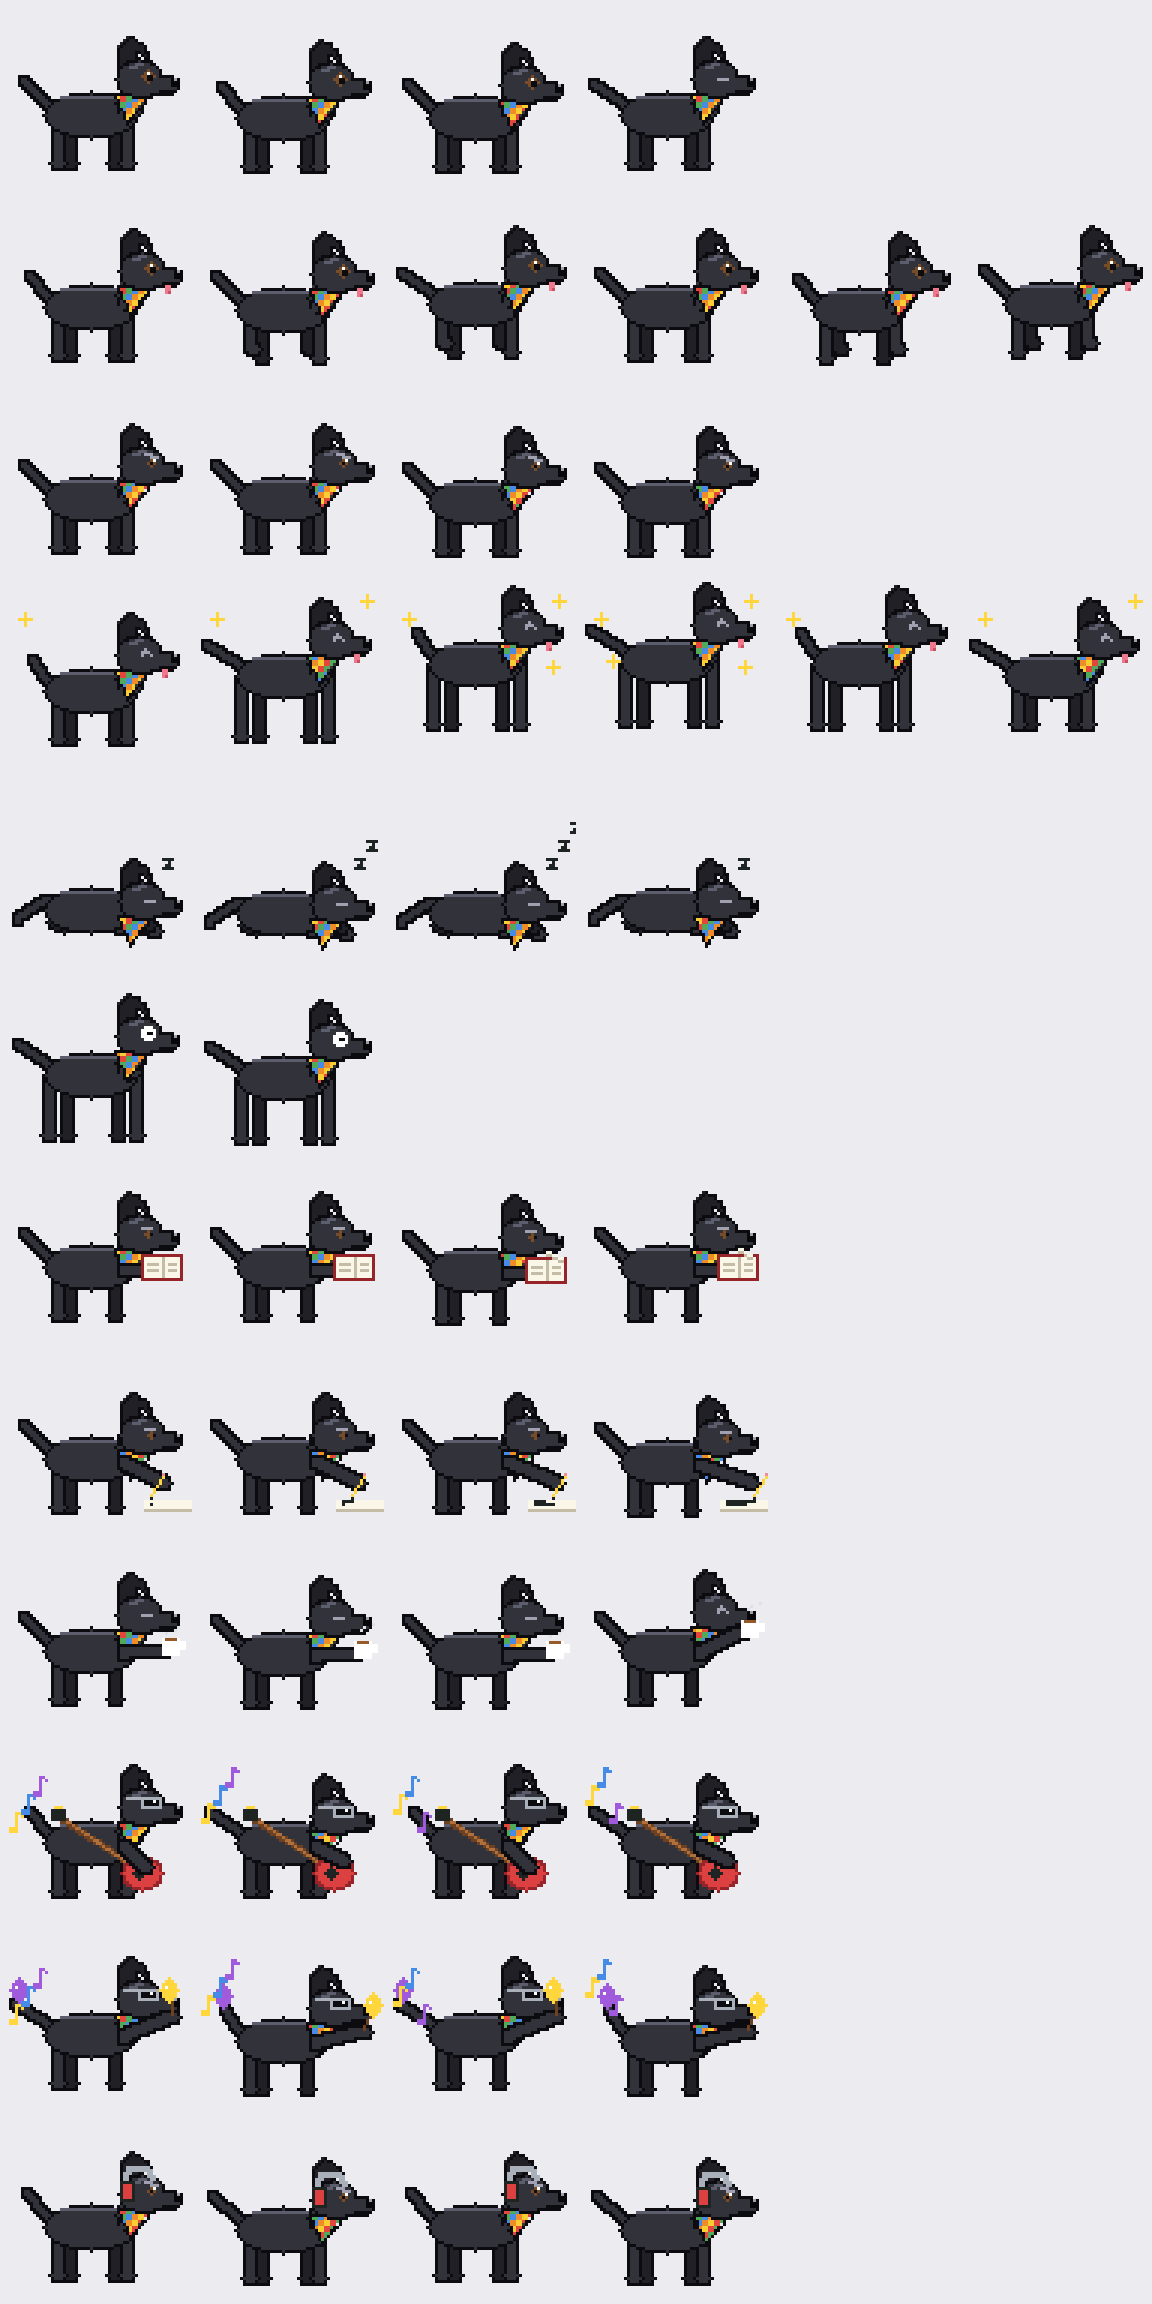
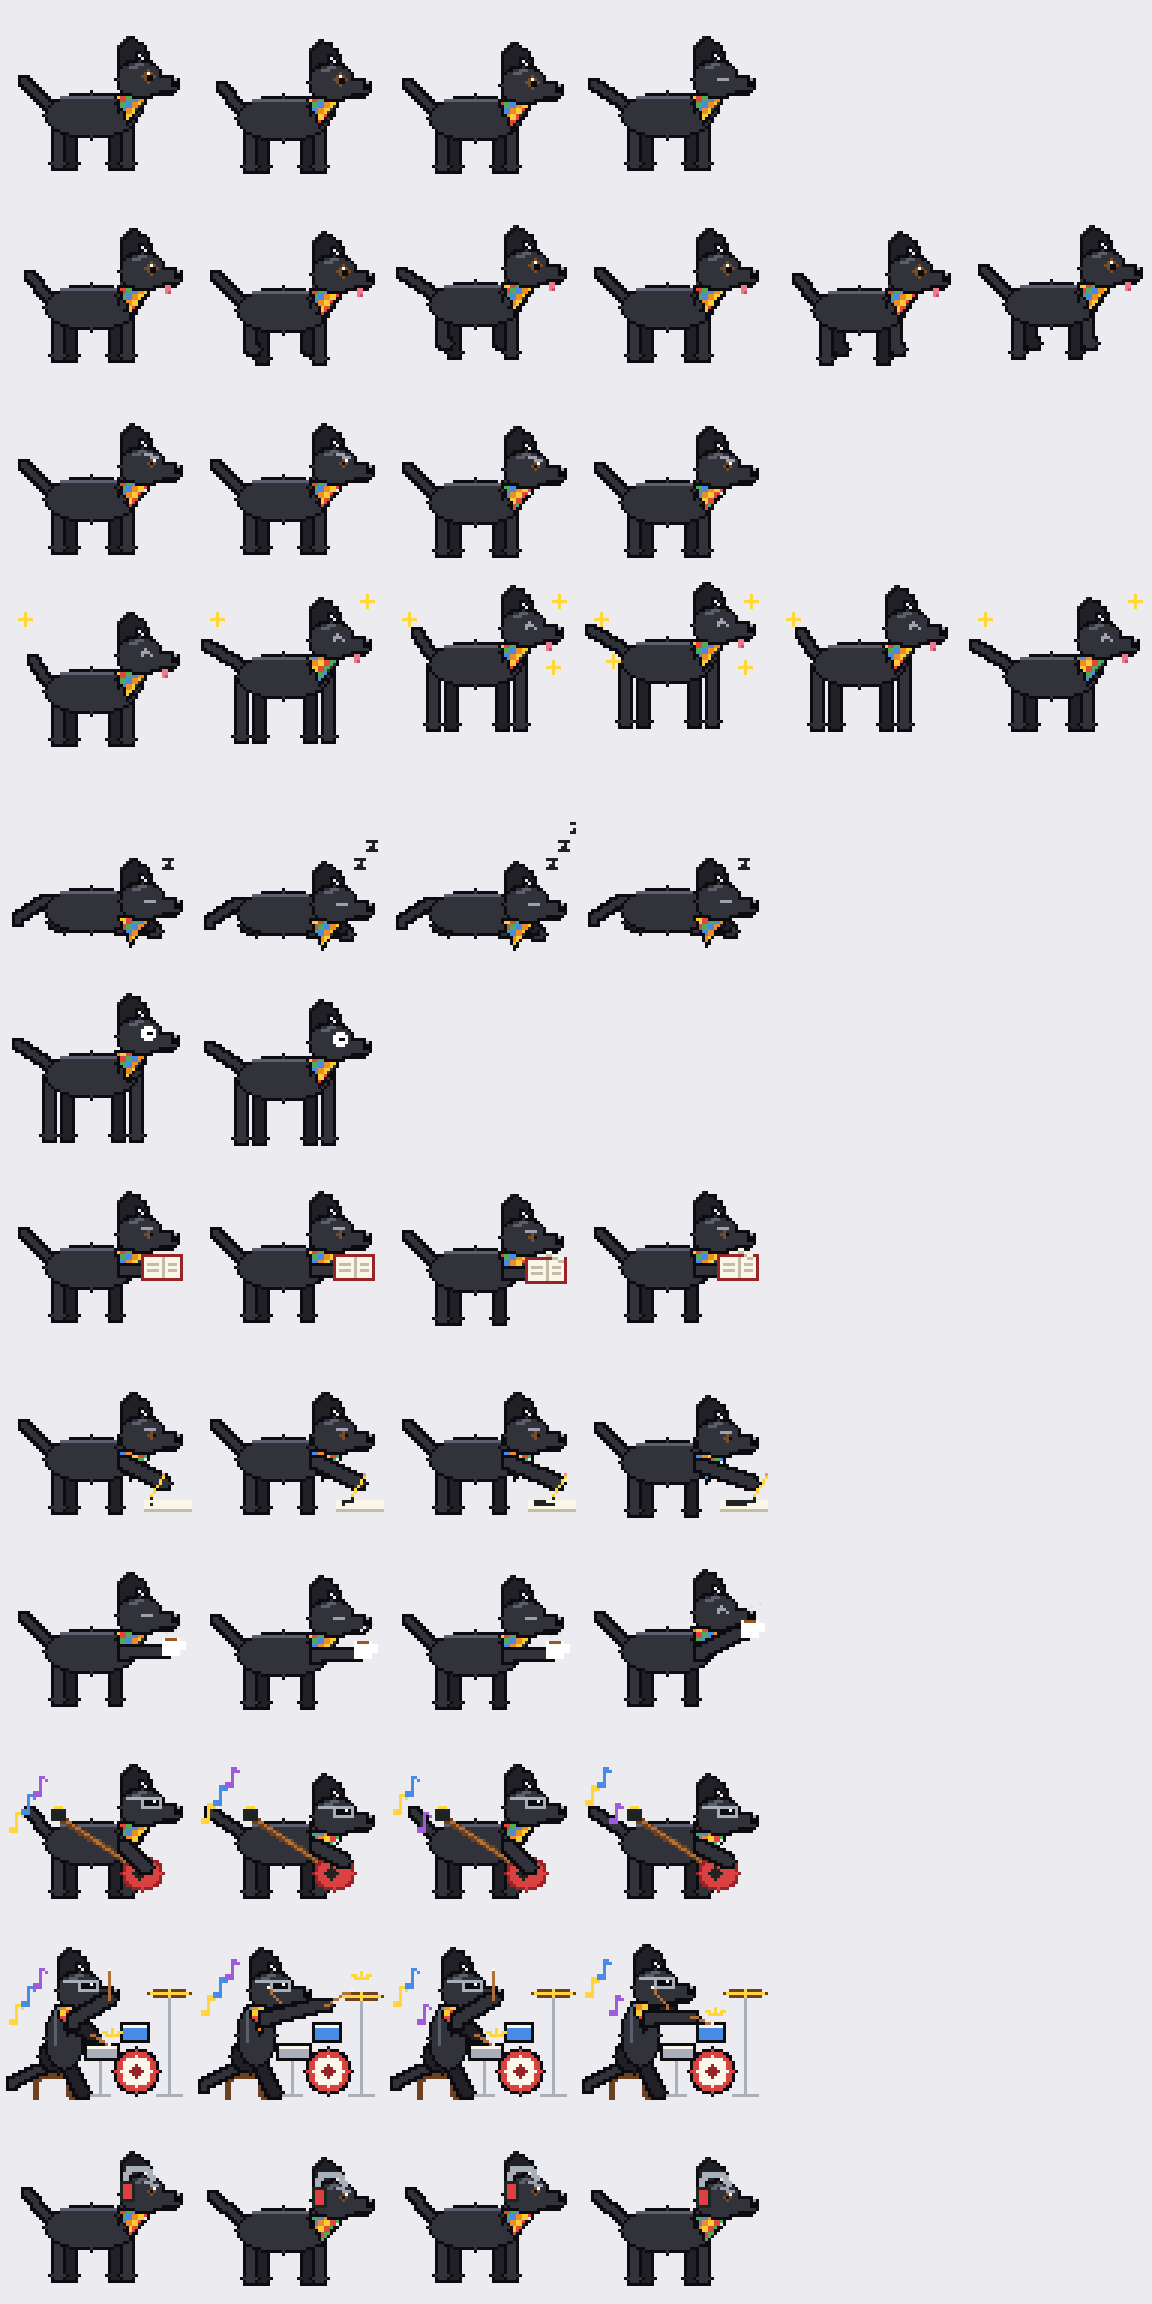
Candolita toca bateria sentada; no camina tras celebrar durante el foco
- La animacion de maracas de Candolita pasa a "drums": sentada en una
  banqueta golpeando caja, platillo y tom.
- Si la arrastraban mientras celebraba una tarea en foco, al aterrizar
  volvia a idle y se ponia a caminar; ahora vuelve al foco.

Changed region(s): [[0.1875, 0.8438, 0.6562, 0.9375], [0.0, 0.8438, 0.1562, 0.9375]]

diff --git a/src/pet/stateMachine.test.ts b/src/pet/stateMachine.test.ts
@@ -95,4 +95,9 @@ describe("stateMachine", () => {
     expect(run(base, { type: "land" }).state).toBe("attention");
     expect(run(base, { type: "panelClose" }, { type: "land" }).state).toBe("idle");
   });
+  it("arrastrada mientras celebra una tarea en foco: al aterrizar sigue en foco (no camina)", () => {
+    const c = run(initial(), { type: "timerStart" }, { type: "taskDone" }, { type: "drag" }, { type: "drop" }, { type: "land" });
+    expect(c.state).toBe("focus");
+    expect(run(c, tick(60)).state).toBe("focus");
+  });
 });

diff --git a/src/pet/stateMachine.ts b/src/pet/stateMachine.ts
@@ -45,7 +45,7 @@ export function transition(c: Ctx, ev: PetEvent, r = Math.random()): Ctx {
     case "drag":
       return c.state === "dragged"
         ? c
-        : { ...to(c, "dragged", Infinity, c.state === "fall" ? c.after : c.state), quiet: 0 };
+        : { ...to(c, "dragged", Infinity, c.state === "fall" || c.state === "celebrate" ? c.after : c.state), quiet: 0 };
     case "drop":
       return c.state === "dragged" ? to(c, "fall") : c;
     case "land":

diff --git a/examples/candolita/generate.py b/examples/candolita/generate.py
@@ -46,32 +46,7 @@ def limb(c, x0, y0, x1, y1, col=FUR):                                   # pata g
 
 def patch(x, y): return PATCH[(x // 2 + y // 2) % len(PATCH)]
 
-def dog(bob=0, legs=(0, 0, 0, 0), leglen=12, head=(0, 0), eyes="open", arms_up=False, tuck=0, dy=0, zz=0, sparkle=0,
-        hang=False, props=None, arm=None, wag=0, tongue=False):
-    c = C()
-    lying = tuck > 0
-    by = 38 + bob + dy + (9 if lying else 0)                           # centro del cuerpo
-    foot = by + 4 + leglen + (4 if hang else 0)
-    # cola (se mueve con wag)
-    tip = (6, by + 4) if lying else (8 + wag, by - 11 + abs(wag) // 2)
-    c.line(16, by - 3, tip[0], tip[1], LINE, 4); c.line(16, by - 3, tip[0], tip[1], FUR, 2)
-    # patas: 0 trasera cerca, 1 trasera lejos, 2 delantera lejos, 3 delantera cerca
-    xs = (19, 23, 38, 42)
-    if lying:
-        c.ell(21, by + 4, 6, 4, LINE); c.ell(21, by + 4, 5, 3, FUR_D)
-        for k, y in enumerate((by + 6, by + 4)): limb(c, 40, y, 51 - k * 2, y + 1, FUR_D if k else FUR)
-    else:
-        for i in (1, 2, 0, 3):                                          # las lejanas primero, más oscuras
-            if i >= 2 and (arms_up or (arm and i == 3)): continue
-            x = xs[i] + (2 * i - 3 if hang else 0)
-            limb(c, x, by + 2, x + legs[i] // 2, foot - legs[i], FUR_D if i in (1, 2) else FUR)
-    # cuerpo y cuello
-    c.ell(30, by, 16, 8, LINE); c.ell(30, by, 15, 7, FUR)
-    c.line(20, by - 6, 38, by - 6, FUR_L)
-    hx, hy = (47, by - 3) if lying else (46 + head[0], by - 12 + head[1])
-    if not lying:
-        c.ell(43, by - 4, 5, 6, LINE); c.ell(43, by - 4, 4, 5, FUR)
-        c.line(hx - 3, hy + 2, 43, by - 2, FUR, 6)
+def draw_head(c, hx, hy, eyes="open", tongue=False):                       # cabeza, oreja, pañoleta y ojos
     # oreja semicaída (detrás de la cabeza)
     c.poly([(hx - 7, hy - 3), (hx - 7, hy - 10), (hx - 3, hy - 14), (hx + 2, hy - 11), (hx + 3, hy - 7), (hx - 1, hy - 9), (hx - 1, hy - 3)], FUR_D)
     # cabeza + hocico
@@ -100,8 +75,34 @@ def dog(bob=0, legs=(0, 0, 0, 0), leglen=12, head=(0, 0), eyes="open", arms_up=F
     elif eyes == "shades":                                              # lentes oscuros con marco claro
         c.rect(ex - 3, ey - 2, ex + 3, ey + 1, GREY); c.rect(ex - 2, ey - 1, ex + 2, ey, LINE)
         c.line(ex - 8, ey - 2, ex - 3, ey - 2, GREY); c.put(ex + 1, ey - 1, WHITE)
-    if arms_up:                                                         # patas delanteras arriba
-        for ax in (37, 44): limb(c, 41, by, ax + 1, by - 14, FUR_D if ax == 37 else FUR)
+
+def dog(bob=0, legs=(0, 0, 0, 0), leglen=12, head=(0, 0), eyes="open", tuck=0, dy=0, zz=0, sparkle=0,
+        hang=False, props=None, arm=None, wag=0, tongue=False):
+    c = C()
+    lying = tuck > 0
+    by = 38 + bob + dy + (9 if lying else 0)                           # centro del cuerpo
+    foot = by + 4 + leglen + (4 if hang else 0)
+    # cola (se mueve con wag)
+    tip = (6, by + 4) if lying else (8 + wag, by - 11 + abs(wag) // 2)
+    c.line(16, by - 3, tip[0], tip[1], LINE, 4); c.line(16, by - 3, tip[0], tip[1], FUR, 2)
+    # patas: 0 trasera cerca, 1 trasera lejos, 2 delantera lejos, 3 delantera cerca
+    xs = (19, 23, 38, 42)
+    if lying:
+        c.ell(21, by + 4, 6, 4, LINE); c.ell(21, by + 4, 5, 3, FUR_D)
+        for k, y in enumerate((by + 6, by + 4)): limb(c, 40, y, 51 - k * 2, y + 1, FUR_D if k else FUR)
+    else:
+        for i in (1, 2, 0, 3):                                          # las lejanas primero, más oscuras
+            if arm and i == 3: continue
+            x = xs[i] + (2 * i - 3 if hang else 0)
+            limb(c, x, by + 2, x + legs[i] // 2, foot - legs[i], FUR_D if i in (1, 2) else FUR)
+    # cuerpo y cuello
+    c.ell(30, by, 16, 8, LINE); c.ell(30, by, 15, 7, FUR)
+    c.line(20, by - 6, 38, by - 6, FUR_L)
+    hx, hy = (47, by - 3) if lying else (46 + head[0], by - 12 + head[1])
+    if not lying:
+        c.ell(43, by - 4, 5, 6, LINE); c.ell(43, by - 4, 4, 5, FUR)
+        c.line(hx - 3, hy + 2, 43, by - 2, FUR, 6)
+    draw_head(c, hx, hy, eyes, tongue)
     if arm:                                                             # pata delantera hasta un punto (sostiene algo)
         limb(c, 41, by + 1, *(arm(hx, hy) if callable(arm) else arm))
     if props: props(c, by, hx, hy)
@@ -170,16 +171,39 @@ def guitar(i):                                                          # músic
         limb(c, 41, by + 1, 48 + (0, 2, 0, 2)[i], 46 - (0, 2, 0, 2)[i])
         notes(c, i)
     return dog(bob=0, eyes="shades", head=(1, (0, 3, 0, 3)[i]), wag=(2, -2)[i % 2], props=p)
-def maracas(i):                                                         # música: una maraca en la pata, otra en la cola
-    sh = 1 if i % 2 else -1
-    def p(c, by, hx, hy):
-        mx, my = hx + 11, hy + 6 + sh
-        c.line(mx, my, mx + 1 + sh, my - 5, WOOD_D); c.ell(mx + 1 + sh * 2, my - 8, 3, 4, GOLD); c.put(mx + sh * 2, my - 9, WHITE)
-        tx, ty = 8 + 3 * sh, by - 11
-        c.ell(tx - sh, ty - 4, 3, 4, PURPLE); c.put(tx - sh - 1, ty - 5, WHITE)
-        notes(c, i)
-    return dog(bob=(0, 2, 0, 2)[i], eyes="shades", head=(0, (0, 1, 0, 1)[i]), wag=3 * sh,
-               arm=lambda hx, hy: (hx + 11, hy + 7 + sh), props=p)
+def drums(i):                                                           # música: sentada en un piso tocando la batería
+    hit = ("snare", "crash", "snare", "tom")[i]
+    c = C()
+    bob = (1, 0, 1, 0)[i]
+    c.rect(11, 51, 25, 52, WOOD_D); c.rect(12, 50, 24, 50, RED)                       # piso (banqueta)
+    c.line(13, 53, 12, 59, WOOD_D, 2); c.line(23, 53, 24, 59, WOOD_D, 2)
+    c.line(14, 50, 4, 55 + (i % 2), LINE, 4); c.line(14, 50, 4, 55 + (i % 2), FUR, 2)  # cola en el piso
+    c.ell(19, 45, 7, 6, LINE); c.ell(19, 45, 6, 5, FUR_D)                              # muslo sentado
+    limb(c, 22, 47, 27, 57, FUR_D)                                                     # pata trasera al pedal
+    c.ell(21, 38 + bob, 7, 11, LINE); c.ell(21, 38 + bob, 6, 10, FUR)                  # torso erguido
+    c.line(18, 29 + bob, 18, 40 + bob, FUR_L)
+    hx, hy = 26, 22 + bob + (1 if hit == "crash" else 0)
+    draw_head(c, hx, hy, "shades", tongue=hit == "crash")
+    # batería: bombo, caja, tom y platillo
+    c.line(56, 58, 56, 26, GREY); c.line(52, 58, 60, 58, GREY)
+    cy = 24 + (1 if hit == "crash" else 0)
+    c.ell(56, cy, 7, 1.5, WOOD_D); c.ell(56, cy, 6, 1, GOLD)
+    c.ell(45, 50, 8, 8, LINE); c.ell(45, 50, 7, 7, RED); c.ell(45, 50, 5, 5, PAPER); c.ell(45, 50, 2, 2, RED_D)
+    c.rect(28, 41, 39, 46, LINE); c.rect(29, 42, 38, 45, GREY); c.line(29, 42, 38, 42, PAPER)
+    c.line(33, 47, 33, 58, GREY); c.line(30, 58, 36, 58, GREY)
+    c.rect(40, 34, 49, 40, LINE); c.rect(41, 35, 48, 39, BLUE); c.line(41, 35, 48, 35, PAPER)
+    # patas delanteras con baquetas: (pata, punta) según el golpe
+    up_l, up_r = ((31, 30), (25, 22)), ((36, 26), (36, 16))
+    snare_l, crash_r, tom_r = ((30, 38), (36, 41)), ((44, 28), (53, 23)), ((38, 32), (45, 34))
+    left = snare_l if hit == "snare" else up_l
+    right = {"crash": crash_r, "tom": tom_r}.get(hit, up_r)
+    for ((px, py), (tx, ty)), col in ((left, FUR_D), (right, FUR)):
+        limb(c, 24, 33 + bob, px, py, col)
+        c.line(px, py, tx, ty, WOOD, 1); c.put(tx, ty, PAPER)
+    spark = {"snare": (37, 39), "crash": (56, 20), "tom": (46, 32)}[hit]
+    for dx, dy in ((-3, -2), (0, -3), (3, -2)): c.line(spark[0] + dx // 3, spark[1] + dy // 3, spark[0] + dx, spark[1] + dy, GOLD)
+    notes(c, i)
+    return c.p
 def listen(i):                                                          # concentración + música: audífonos, sigue el ritmo
     return dog(bob=(0, 1, 0, 1)[i], eyes="focus", head=(1, (1, 2, 1, 2)[i]), wag=(1, -1)[i % 2],
                props=lambda c, by, hx, hy: headphones(c, hx, hy))
@@ -194,7 +218,7 @@ def sheet(fn, n):
     return [sum((frames[k][y] for k in range(n)), []) for y in range(F)]
 
 anims = {"idle": (idle, 4), "walk": (walk, 6), "focus": (focus, 4), "celebrate": (celeb, 6), "sleep": (sleep, 4), "dragged": (drag, 2),
-         "read": (read, 4), "write": (write, 4), "tea": (tea, 4), "guitar": (guitar, 4), "maracas": (maracas, 4), "listen": (listen, 4)}
+         "read": (read, 4), "write": (write, 4), "tea": (tea, 4), "guitar": (guitar, 4), "drums": (drums, 4), "listen": (listen, 4)}
 for name, (fn, n) in anims.items(): png(f"{OUT}/{name}.png", F * n, F, sheet(fn, n))
 
 # vista previa ampliada x3 con todas las filas (fondo claro)
